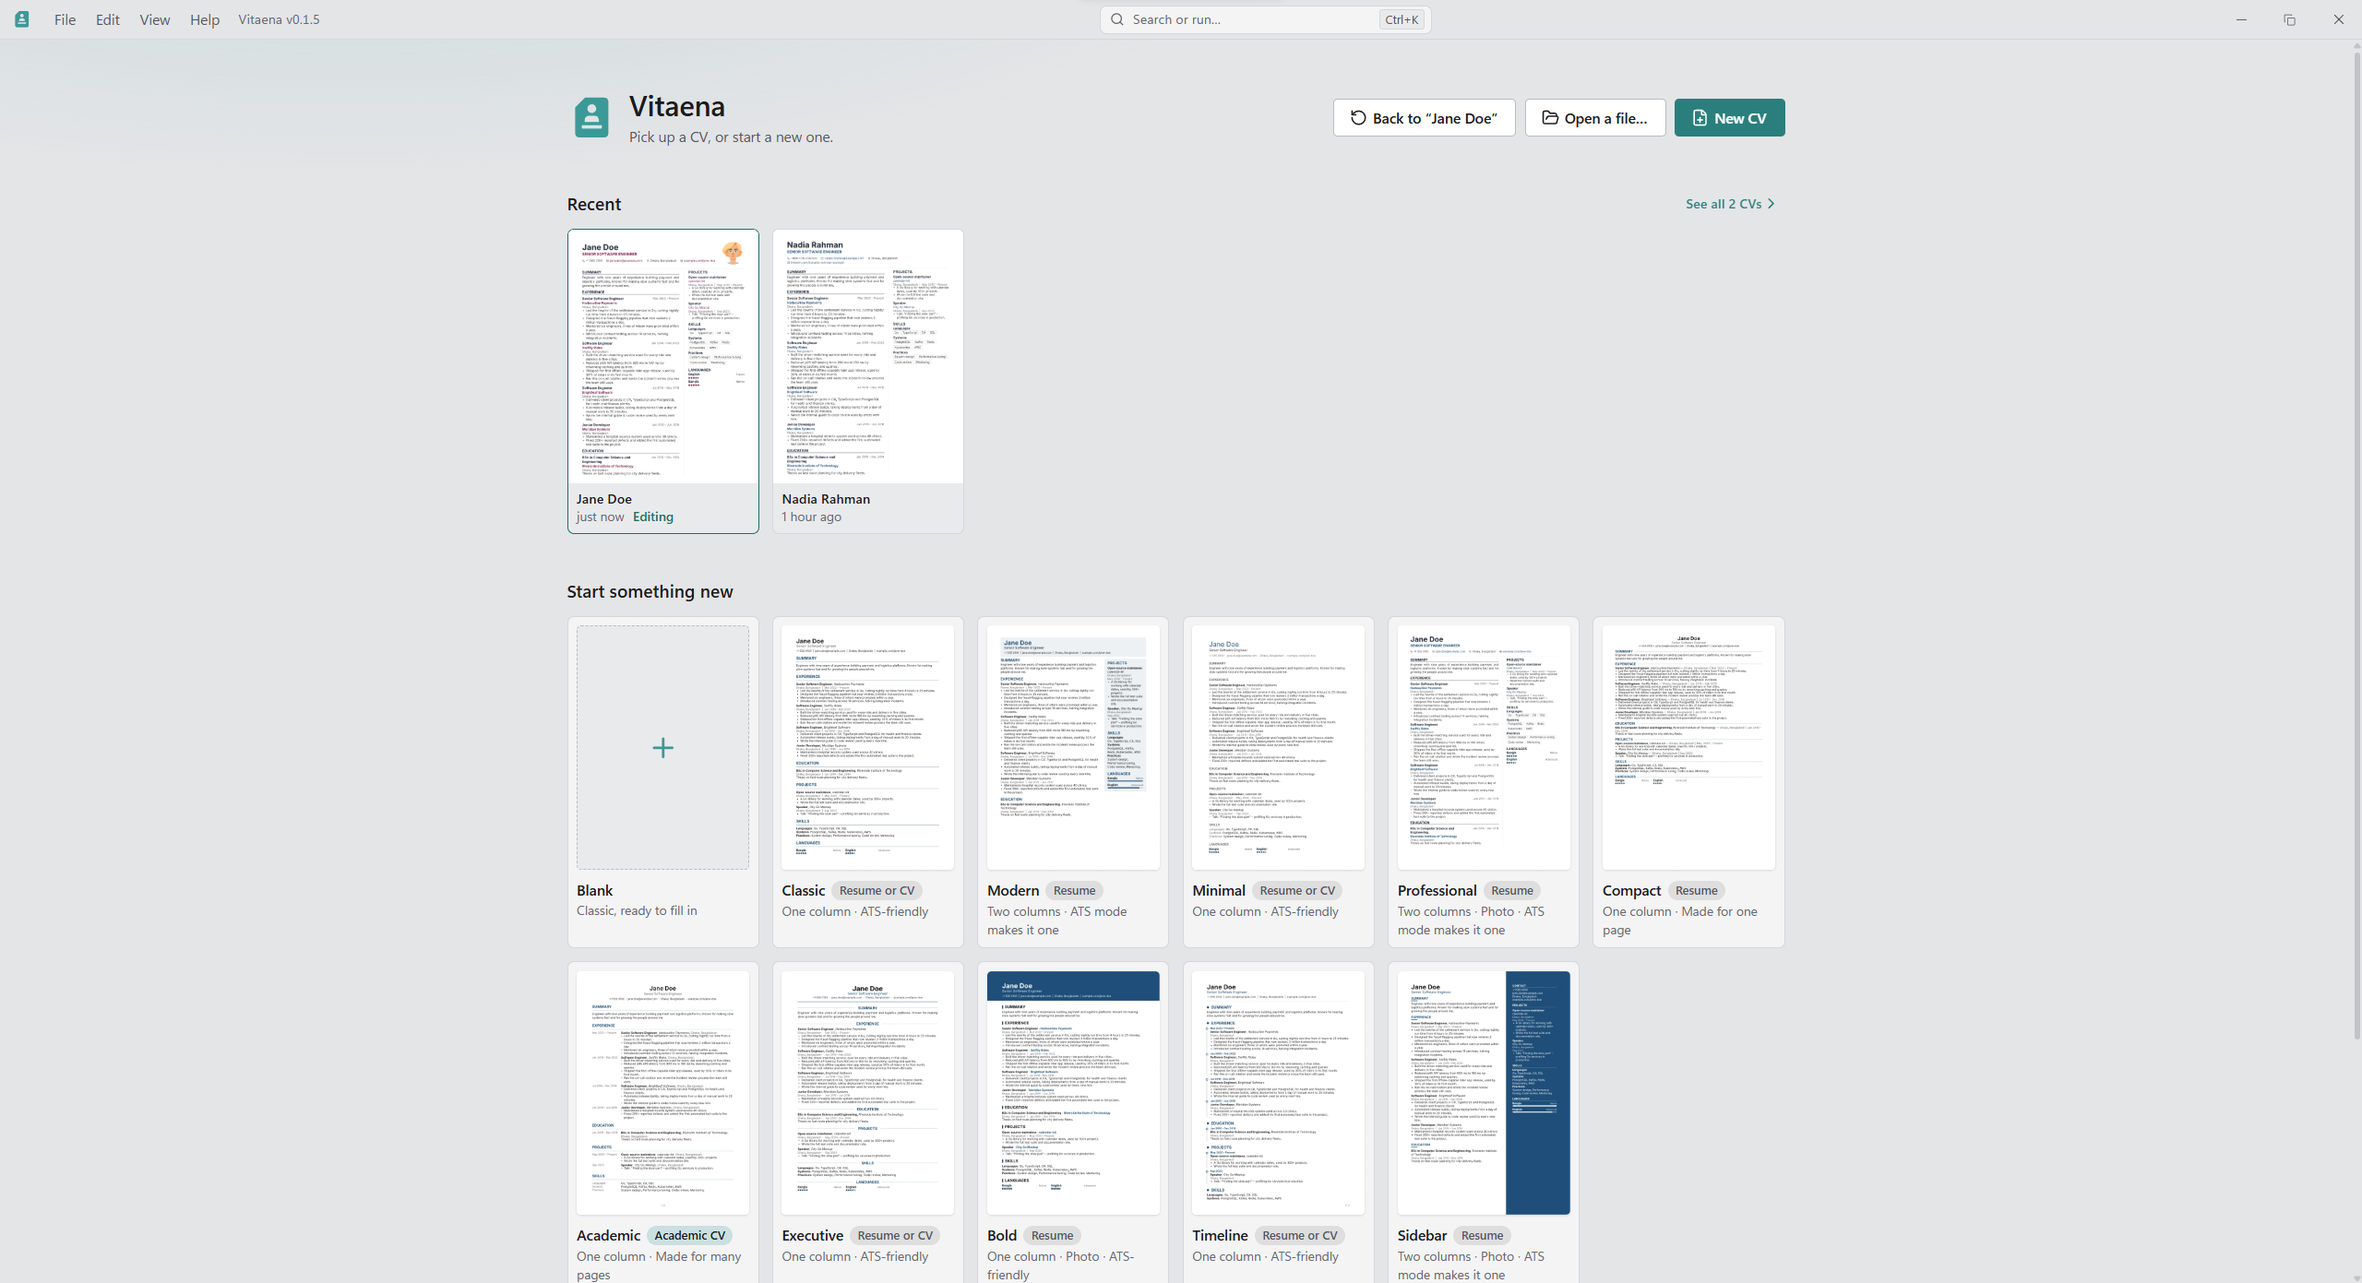
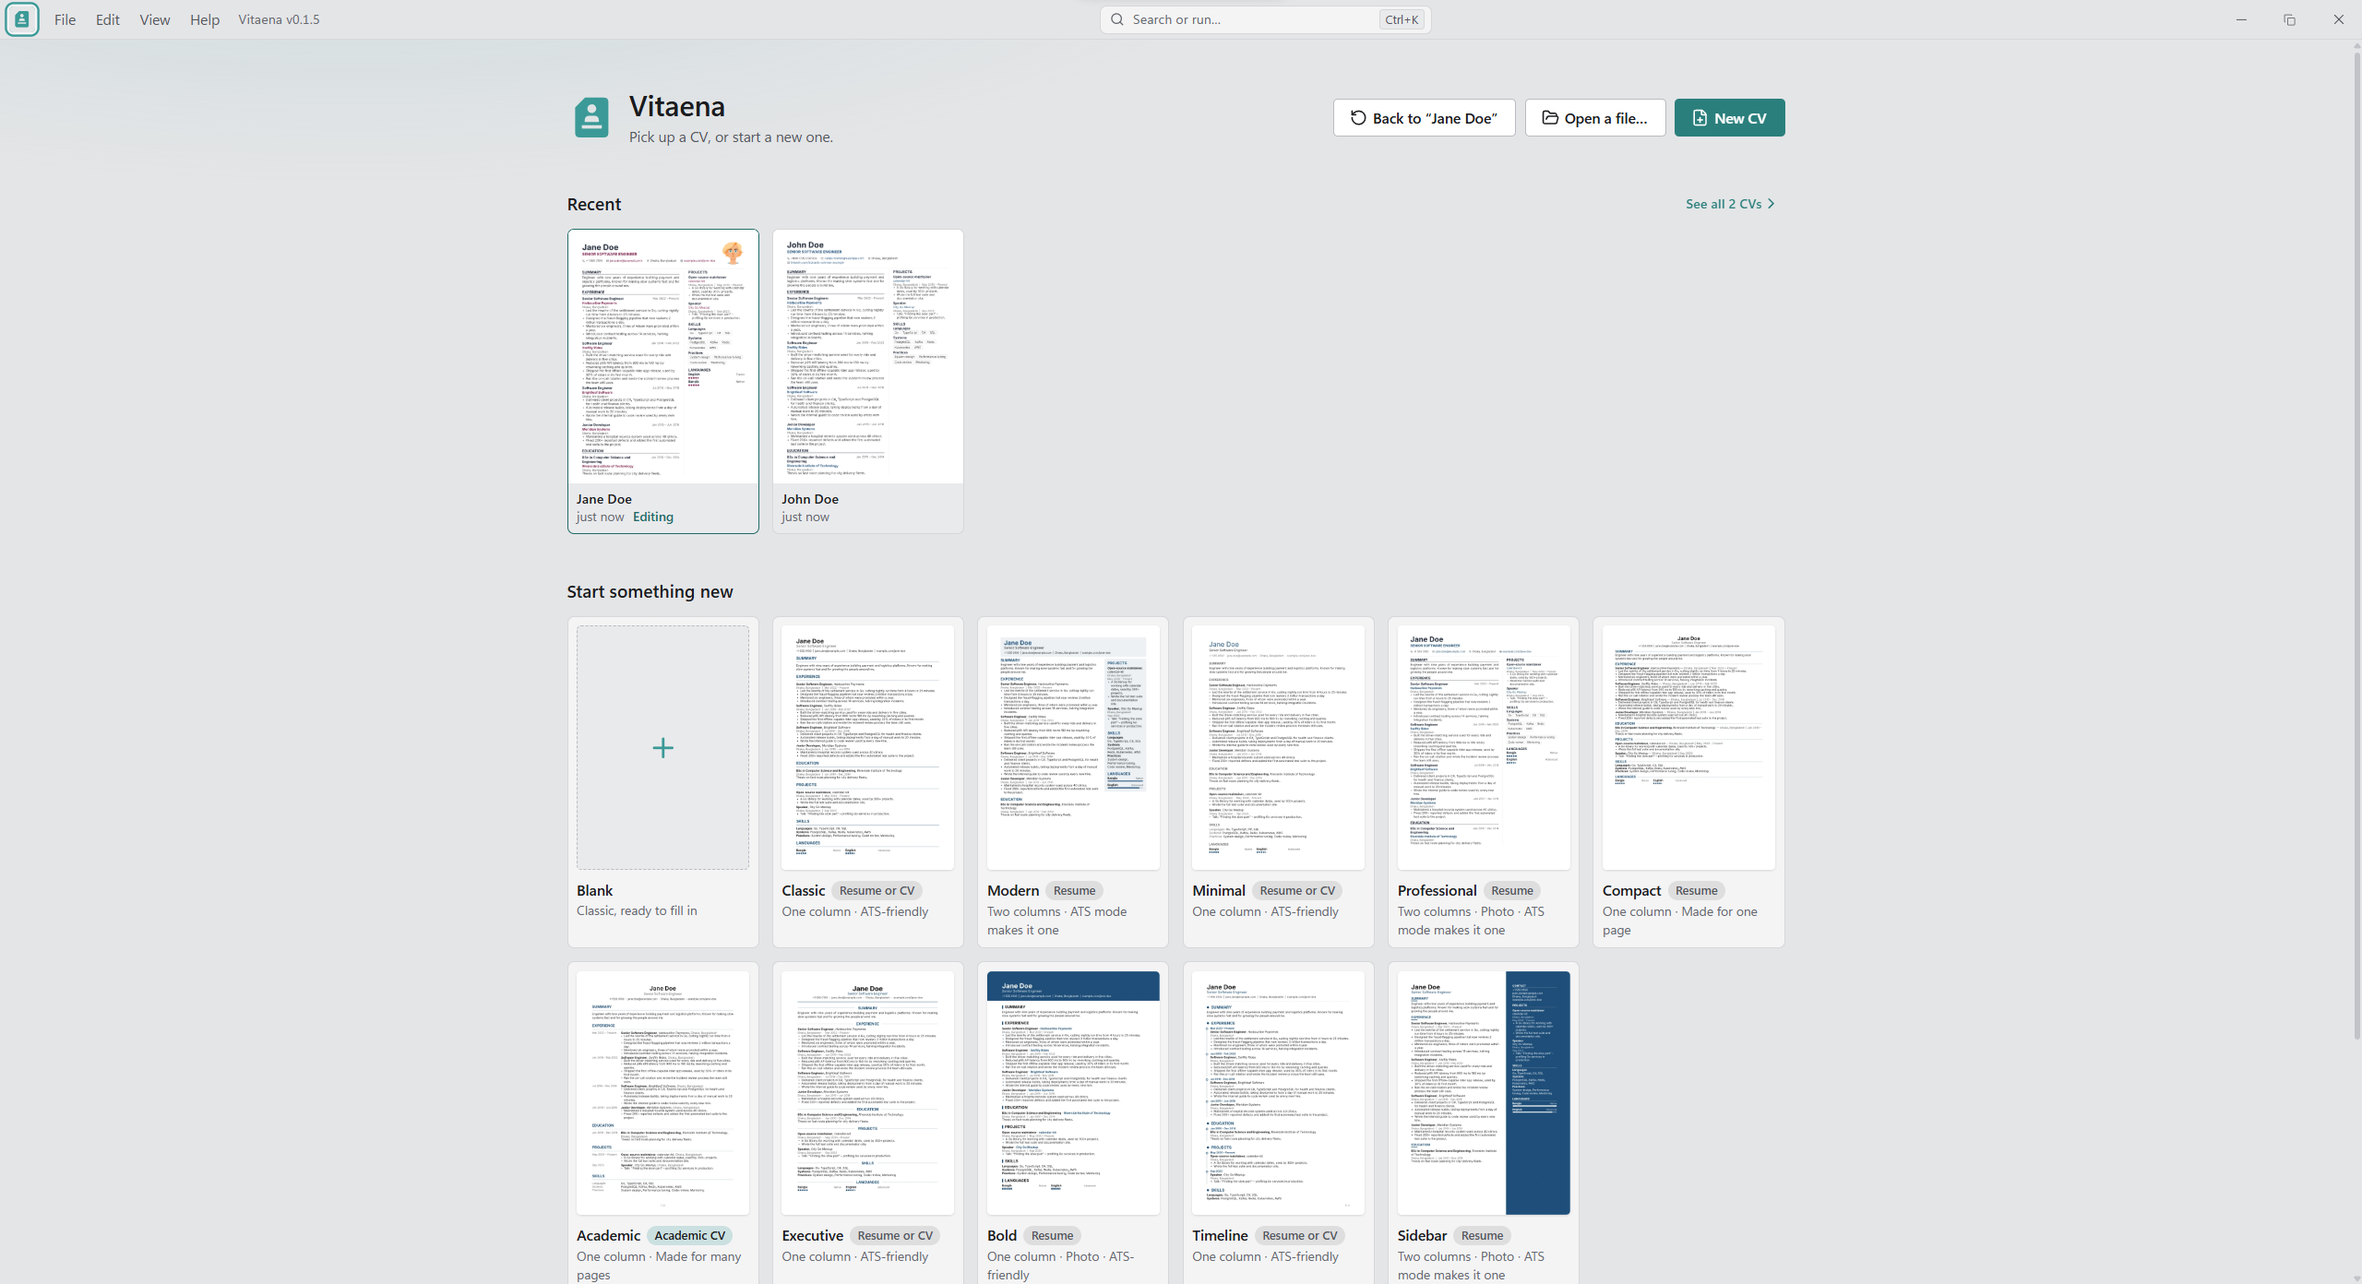
Docs and issue forms for 0.1.5: Linux, CV words, new Home screenshot
AGENTS.md, CONTRIBUTING.md, build/README.md and docs/terminology.md now describe this
app on all three systems instead of the template's notes example. The bug report form
offers Linux and CV-specific choices, and Report a problem names a Linux system
correctly and keeps its choices in step with the forms.

diff --git a/frontend/src/features/report/report-forms.ts b/frontend/src/features/report/report-forms.ts
@@ -6,6 +6,8 @@
  * without a word. A test reads the templates and checks this list against them.
  */
 
+import {documentType} from '../../store/document-store'
+
 export type ReportKind = 'bug' | 'feature'
 
 export interface ReportField {
@@ -32,12 +34,18 @@ export interface ReportForm {
     readonly fields: readonly ReportField[]
 }
 
+// The issue forms name the app's own document, so these do too, through its noun.
+const noun = documentType.noun
+
 export const BUG_ACTIONS = [
-    'Installing or opening the app',
-    'Browsing the home page or my saved documents',
-    'Editing a document',
-    'Saving or opening a document',
-    'Exporting',
+    'Installing, opening or updating the app',
+    `Browsing Home or my saved ${noun}s`,
+    `Editing a ${noun}`,
+    'Choosing a template or changing the style',
+    'The page preview looks wrong',
+    `Saving or opening a ${noun}`,
+    'Exporting a PDF, Word file or text',
+    'The Check tab or a screening system',
     'Backing up or restoring',
     'Changing settings or the interface scale',
     'Something else',
@@ -48,6 +56,8 @@ export const SYSTEMS = [
     'Windows 10',
     'Mac with Apple silicon',
     'Mac with Intel',
+    'Linux, from the .deb, .rpm or Arch package',
+    'Linux, from the AppImage',
     'Built from source on another system',
 ] as const
 
@@ -83,7 +93,7 @@ export const REPORT_FORMS: readonly ReportForm[] = [
                 label: 'Which part of the app is it about?',
                 type: 'dropdown',
                 required: true,
-                options: ['Home page and saved documents', 'Editing', 'Export', 'Backup', 'Settings and shortcuts', 'Something else'],
+                options: [`Home and saved ${noun}s`, `Editing a ${noun}`, 'Templates and style', 'The Check tab and screening systems', 'Export', 'Backup', 'Settings and shortcuts', 'Something else'],
             },
             {
                 id: 'problem',

diff --git a/frontend/src/features/report/issue-link.test.ts b/frontend/src/features/report/issue-link.test.ts
@@ -70,7 +70,7 @@ describe('the report as text', () => {
 
 describe('what the app fills in', () => {
     it('guesses what the person was doing from where they are', () => {
-        expect(guessAction({onHome: true})).toBe('Browsing the home page or my saved documents')
-        expect(guessAction({onHome: false})).toBe('Editing a document')
+        expect(guessAction({onHome: true})).toBe('Browsing Home or my saved CVs')
+        expect(guessAction({onHome: false})).toBe('Editing a CV')
     })
 })

diff --git a/frontend/src/features/report/report-context.ts b/frontend/src/features/report/report-context.ts
@@ -13,5 +13,5 @@ export interface ReportPlace {
 
 /** A first guess at What were you doing?, which the person can change. */
 export function guessAction(place: ReportPlace): BugAction {
-    return place.onHome ? 'Browsing the home page or my saved documents' : 'Editing a document'
+    return place.onHome ? BUG_ACTIONS[1] : BUG_ACTIONS[2]
 }

diff --git a/backend/system_test.go b/backend/system_test.go
@@ -7,20 +7,23 @@ func TestSystemNameMatchesTheBugReportsList(t *testing.T) {
 		goos   string
 		goarch string
 		build  uint32
+		image  bool
 		want   string
 	}{
-		{"windows", "amd64", 26100, "Windows 11"},
-		{"windows", "amd64", 22000, "Windows 11"},
-		{"windows", "amd64", 19045, "Windows 10"},
-		{"windows", "amd64", 0, ""},
-		{"darwin", "arm64", 0, "Mac with Apple silicon"},
-		{"darwin", "amd64", 0, "Mac with Intel"},
-		{"linux", "amd64", 0, "Built from source on another system"},
+		{"windows", "amd64", 26100, false, "Windows 11"},
+		{"windows", "amd64", 22000, false, "Windows 11"},
+		{"windows", "amd64", 19045, false, "Windows 10"},
+		{"windows", "amd64", 0, false, ""},
+		{"darwin", "arm64", 0, false, "Mac with Apple silicon"},
+		{"darwin", "amd64", 0, false, "Mac with Intel"},
+		{"linux", "amd64", 0, false, "Linux, from the .deb, .rpm or Arch package"},
+		{"linux", "amd64", 0, true, "Linux, from the AppImage"},
+		{"freebsd", "amd64", 0, false, "Built from source on another system"},
 	}
 
 	for _, each := range cases {
-		if got := systemName(each.goos, each.goarch, each.build); got != each.want {
-			t.Errorf("systemName(%q, %q, %d) = %q, want %q", each.goos, each.goarch, each.build, got, each.want)
+		if got := systemName(each.goos, each.goarch, each.build, each.image); got != each.want {
+			t.Errorf("systemName(%q, %q, %d, %v) = %q, want %q", each.goos, each.goarch, each.build, each.image, got, each.want)
 		}
 	}
 }

diff --git a/backend/system.go b/backend/system.go
@@ -9,12 +9,12 @@ const windows11Build = 22000
 // SystemInfo names the system the way the bug report's System list does, so
 // Report a problem can fill that in for the person.
 func (a *App) SystemInfo() string {
-	return systemName(runtime.GOOS, runtime.GOARCH, windowsBuild())
+	return systemName(runtime.GOOS, runtime.GOARCH, windowsBuild(), runningAppImage() != "")
 }
 
 // systemName is SystemInfo without the lookups, so it can be tested anywhere.
-// build is 0 when it isn't known.
-func systemName(goos string, goarch string, build uint32) string {
+// build is 0 when it isn't known; appImage is whether this copy runs from one.
+func systemName(goos string, goarch string, build uint32, appImage bool) string {
 	switch {
 	case goos == "windows" && build >= windows11Build:
 		return "Windows 11"
@@ -27,6 +27,10 @@ func systemName(goos string, goarch string, build uint32) string {
 	case goos == "windows":
 		// Windows that won't say its build is left for the person to choose.
 		return ""
+	case goos == "linux" && appImage:
+		return "Linux, from the AppImage"
+	case goos == "linux":
+		return "Linux, from the .deb, .rpm or Arch package"
 	default:
 		return "Built from source on another system"
 	}

diff --git a/AGENTS.md b/AGENTS.md
@@ -1,8 +1,9 @@
 # Vitaena
 
-A desktop CV and resume builder: Wails 3 (Go) for the window, files, tray, backups and
-updates; React and TypeScript for everything else; Typst (compiled to WebAssembly) lays out
-the pages for both the preview and the PDF. Built from wails-desktop-template.
+A desktop CV and resume builder for Windows, macOS and Linux: Wails 3 (Go) for the window,
+files, tray, backups and updates; React and TypeScript for everything else; Typst (compiled
+to WebAssembly) lays out the pages for both the preview and the PDF. Built from
+wails-desktop-template.
 Plans live in `specs/` (such as `specs/REWORK_PLAN.md` and `specs/LINUX_PLAN.md`). Git
 ignores that folder, so it exists only on the owner's machine; never link to it from
 published files.
@@ -55,6 +56,10 @@ Commit or push only when asked. Work on `dev`, and don't touch `main`.
   is given (`render-model.ts`), the Typst engine (`typst/engine.ts`), templates
   (`templates/*.typ`), export formats and tours. Every template must pass
   `templates/ats.test.ts`, which reads the PDF back the way an ATS does. `documentType` in `store/document-store.ts` picks the document type.
+- `build/` holds each system's build files; [build/README.md](build/README.md) says which
+  are written from `app.config.json`. Linux packages (deb, rpm, Arch, AppImage) come from
+  `build/linux`, and the **Linux Test Build** workflow installs and starts each one, since
+  nobody on the project runs Linux day to day.
 - The document store is the source of truth for the document in hand. Documents are
   immutable values: an unchanged document keeps the same object, so "unsaved" is an
   identity check.
@@ -72,6 +77,13 @@ Commit or push only when asked. Work on `dev`, and don't touch `main`.
 - **Long work:** use `afterPaint()` or `yieldIfBusy()` from `core/yield.ts`, so progress
   can draw before slow work blocks the page.
 - **Licensing:** add no downloaded assets or copied code.
+- **Systems:** Go files ending in `_windows.go`, `_darwin.go` or `_linux.go` build only on
+  that system, so code every system calls goes in a file without one. On Linux the window
+  keeps the system's title bar and there is no tray (GNOME shows none); `isLinux()` and
+  `hasTray()` in `platform/window.ts`, and `hasTray()` in `backend/tray.go`, decide it.
+- **Updates:** the app finds updates by the release file names in `backend/update.go`,
+  `update_mac.go` and `update_appimage.go`. Change them only with
+  `.github/workflows/release.yml`; a test compares the two.
 
 ## Style
 

diff --git a/build/README.md b/build/README.md
@@ -3,16 +3,43 @@
 Wails 3 builds the app with the tasks in `Taskfile.yml` at the repository root and in each
 folder here. `make` runs them for you.
 
-- `config.yml`, `windows/info.json`, `windows/wails.exe.manifest`,
-  `windows/nsis/wails_tools.nsh`, `darwin/Info.plist` and `darwin/Info.dev.plist` carry the
-  app's name, ids and version. Don't edit those by hand: they're written from
-  `appconfig/app.config.json` by `make rename` and `make version`, and `make check` fails
-  when one drifts.
-- `appicon.png`: the icon, 1024×1024. `wails3 task common:generate:icons` makes the Windows
-  `.ico` and Mac `.icns` from it.
+## Written from app.config.json
+
+Don't edit these by hand: `make rename` and `make version` write them from
+`appconfig/app.config.json`, and `make check` fails when one drifts.
+
+- `config.yml`
+- `windows/info.json`, `windows/wails.exe.manifest`, `windows/nsis/wails_tools.nsh`
+- `darwin/Info.plist`, `darwin/Info.dev.plist`
+- `linux/nfpm/nfpm.yaml`, `linux/app.desktop`
+
+## Icons
+
+`make icons` draws every icon from the SVGs: `appicon.png` (1024×1024), the Windows
+`windows/icon.ico`, the Mac menu bar icon, and the Linux icons in `linux/icons/hicolor`
+at every size. The Mac `.icns` is made from `appicon.png` during the Mac build.
+
+## Windows
+
 - `windows/nsis/project.nsi`: the installer. It installs for the current user, closes a
   running copy before an update, and keeps saved work when uninstalling.
+
+## macOS
+
 - `darwin/make_dmg.sh`: packs `bin/<id>.app` into a disk image.
 
-The app and the Windows installer are built into `bin` at the repository root, and
-`make installer` and `make dmg` copy the release files into `build/dist`.
+## Linux
+
+Built on Linux, as CI does on Ubuntu 24.04, with the GTK 4 and WebKitGTK 6 development
+packages installed.
+
+- `wails3 task linux:package` makes the .deb, .rpm and Arch package from
+  `linux/nfpm/nfpm.yaml`. They install the program to `/usr/bin`, the menu entry as
+  `/usr/share/applications/<bundle id>.desktop`, and the icons.
+- `wails3 task linux:appimage` makes the AppImage, with linuxdeploy pinned to a release
+  and checked against its SHA-256 in `linux/Taskfile.yml`.
+- The menu entry is named after the bundle id because `main.go` sets that as the GTK
+  application id; the desktop matches the two to show the window's icon.
+
+The app and the installers are built into `bin` at the repository root, and `make
+installer` and `make dmg` copy the release files into `build/dist`.

diff --git a/docs/terminology.md b/docs/terminology.md
@@ -1,8 +1,7 @@
 # Words on screen
 
 Everything the app shows follows these rules: labels, buttons, tooltips, messages,
-settings and the changelog. They're the template's defaults. An app made from it adds its
-own words to the table.
+settings and the changelog.
 
 ## Plain words
 
@@ -11,8 +10,11 @@ by what a person does with them, not by how they work.
 
 | Technical term | People see | Notes |
 |---|---|---|
-| Document, file, record | **Note** in the example; the app's own word | `documentType.noun` in code, so the word lives in one place |
-| Library, data folder | **Your notes** | The page; **Where your work is saved** in Settings |
+| Document, file, record | **CV** | `documentType.noun` in code, so the word lives in one place. **Resume** only where a template suits one |
+| Library, data folder | **Your CVs** | The page; **Where your work is saved** in Settings |
+| ATS, applicant tracking system, parser | **Screening system** | **ATS** only in **One column (ATS)** and **ATS mode**, where job ads have taught people the word |
+| Render, compile, Typst | *(never shown)* | The **page**, the **preview** |
+| Proficiency, rating | **Level** | Five dots, with a word such as **Native** beside them |
 | Trash, bin, soft delete | **Recently removed** | Kept 30 days. **Remove** moves something there; **Remove for good** is the only thing that can't be undone |
 | Delete | **Remove** | |
 | Duplicate | **Copy** | |
@@ -34,7 +36,7 @@ One verb per button. The verb names the outcome.
 | Don't write | Write |
 |---|---|
 | OK | Name the outcome: **Save**, **Export**, **Got it** |
-| Apply | What it does: **Rename**, **Restore 2 notes** |
+| Apply | What it does: **Rename**, **Restore 2 CVs** |
 | Confirm | **Remove for good**, **Replace** |
 | Submit | **Save**, **Open GitHub** |
 | Reset | **Restore default**, **Reset this page** |
@@ -55,4 +57,4 @@ never blamed, and nothing technical is shown unless it helps them act.
 - Short sentences, in the second person: "Your work is saved", not "The work has been saved".
 - Sentence case everywhere: **Recently removed**, not **Recently Removed**.
 - No exclamation marks, no "simply" or "just", no "please" in labels.
-- Numbers as digits: "3 notes", "Removed 2 notes".
+- Numbers as digits: "3 CVs", "Removed 2 CVs".

diff --git a/CONTRIBUTING.md b/CONTRIBUTING.md
@@ -37,8 +37,8 @@ for the line to use.
 
 ## What a change has to respect
 
-**The template stays generic.** Code outside `frontend/src/cv` doesn't know what a
-note is. It talks about documents, and asks `documentType` for the word to show.
+**The shell stays generic.** Code outside `frontend/src/cv` doesn't know what a CV is. It
+talks about documents, and asks `documentType` for the word to show.
 
 **Optional features stay removable.** Nothing outside `frontend/src/features` imports a
 feature, and nothing outside a feature's Go package imports that package except
@@ -58,7 +58,12 @@ the app shows.
 set in code uses `rem` or `uiScale()`. Check your change at more than 100% interface scale.
 
 **No code or art we can't license.** Don't add downloaded images, fonts or copied code,
-including anything under the GPL or a paid license.
+including anything under the GPL or a paid license. The bundled fonts come from npm
+packages under the SIL Open Font License.
+
+**Every template passes the screening test.** `frontend/src/cv/templates/ats.test.ts` lays
+each template out, reads the text back from the PDF, and checks its order, dates and
+contact details. A new template is listed in `templates.ts` and passes it.
 
 ## Where things are
 
@@ -71,6 +76,8 @@ including anything under the GPL or a paid license.
 | `frontend/src/shell` | The menu bar, palette, settings, pages and the feature registry |
 | `frontend/src/features` | Optional features |
 | `frontend/src/cv` | The CV: document type, Typst engine, templates |
+| `build` | Each system's build files: Windows installer, Mac app, Linux packages |
+| `.github/workflows` | Release builds for every system, and the Linux test build |
 | `tools/appinfo` | Renames the app, sets the version, checks the build files |
 
 ## License

diff --git a/README.md b/README.md
@@ -71,7 +71,7 @@ Vitaena checks GitHub for a new version and, on Windows, macOS and the AppImage,
 it when you close the app. Your CVs are kept in your own folder and aren't touched by an
 update.
 
-## Building from source
+## Build from source
 
 Needs Go 1.26, Node 22, pnpm and the [Wails 3](https://v3.wails.io) CLI. On Linux, also the
 GTK 4 and WebKitGTK 6 development packages (`libgtk-4-dev libwebkitgtk-6.0-dev` on
